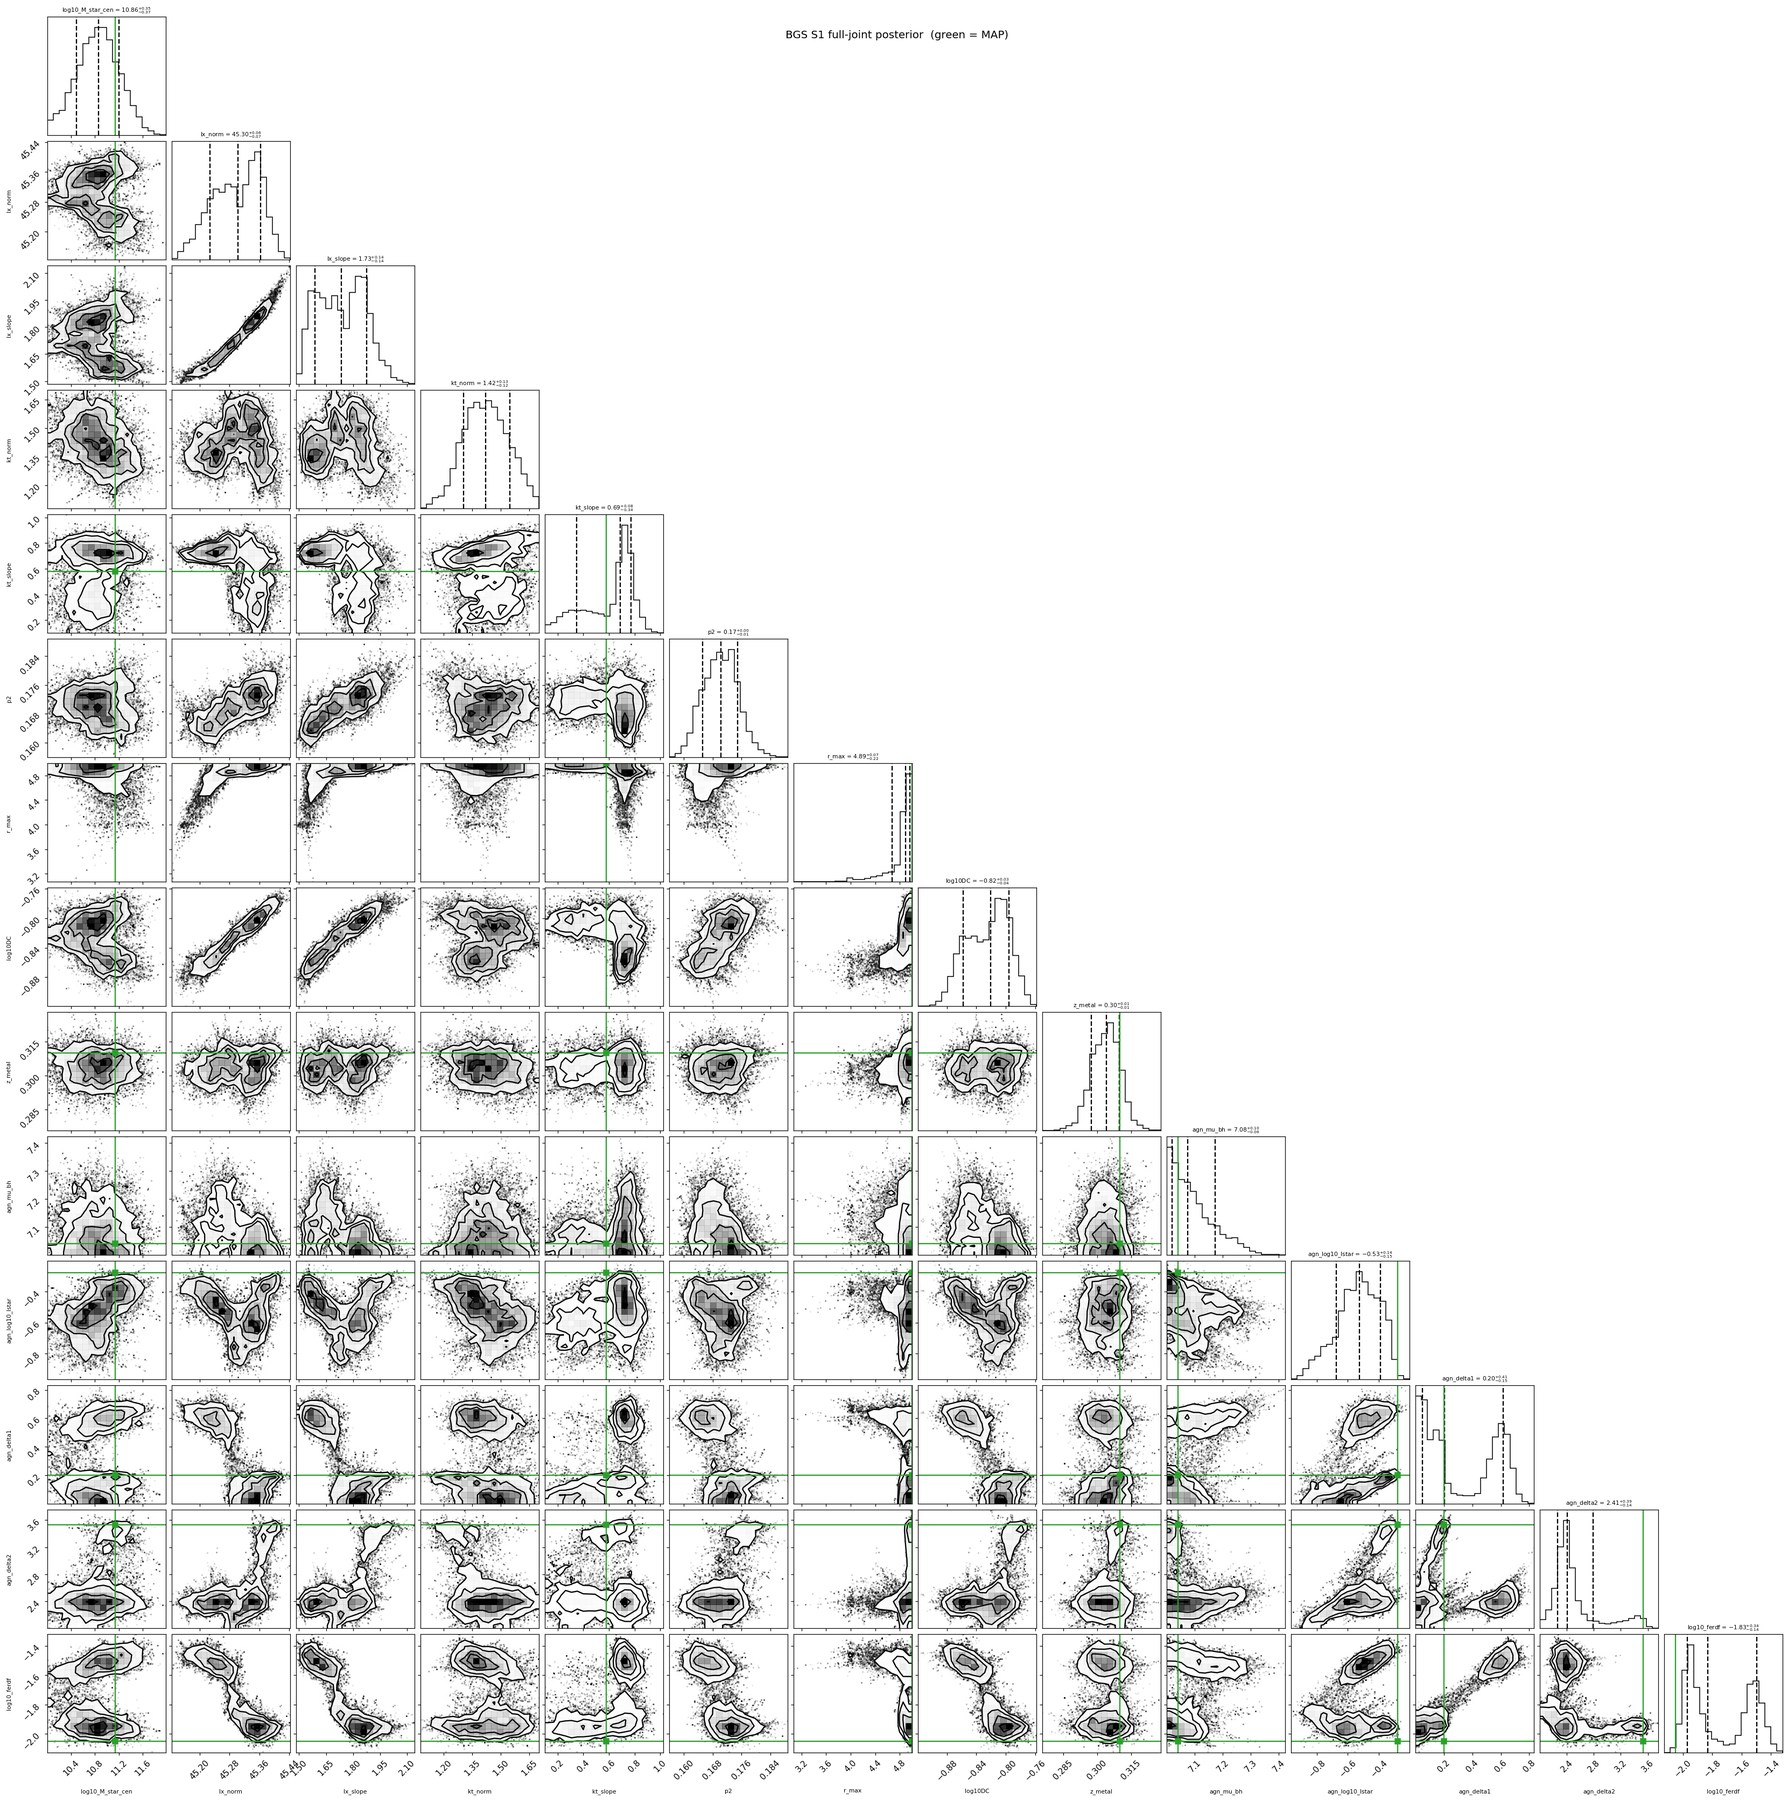
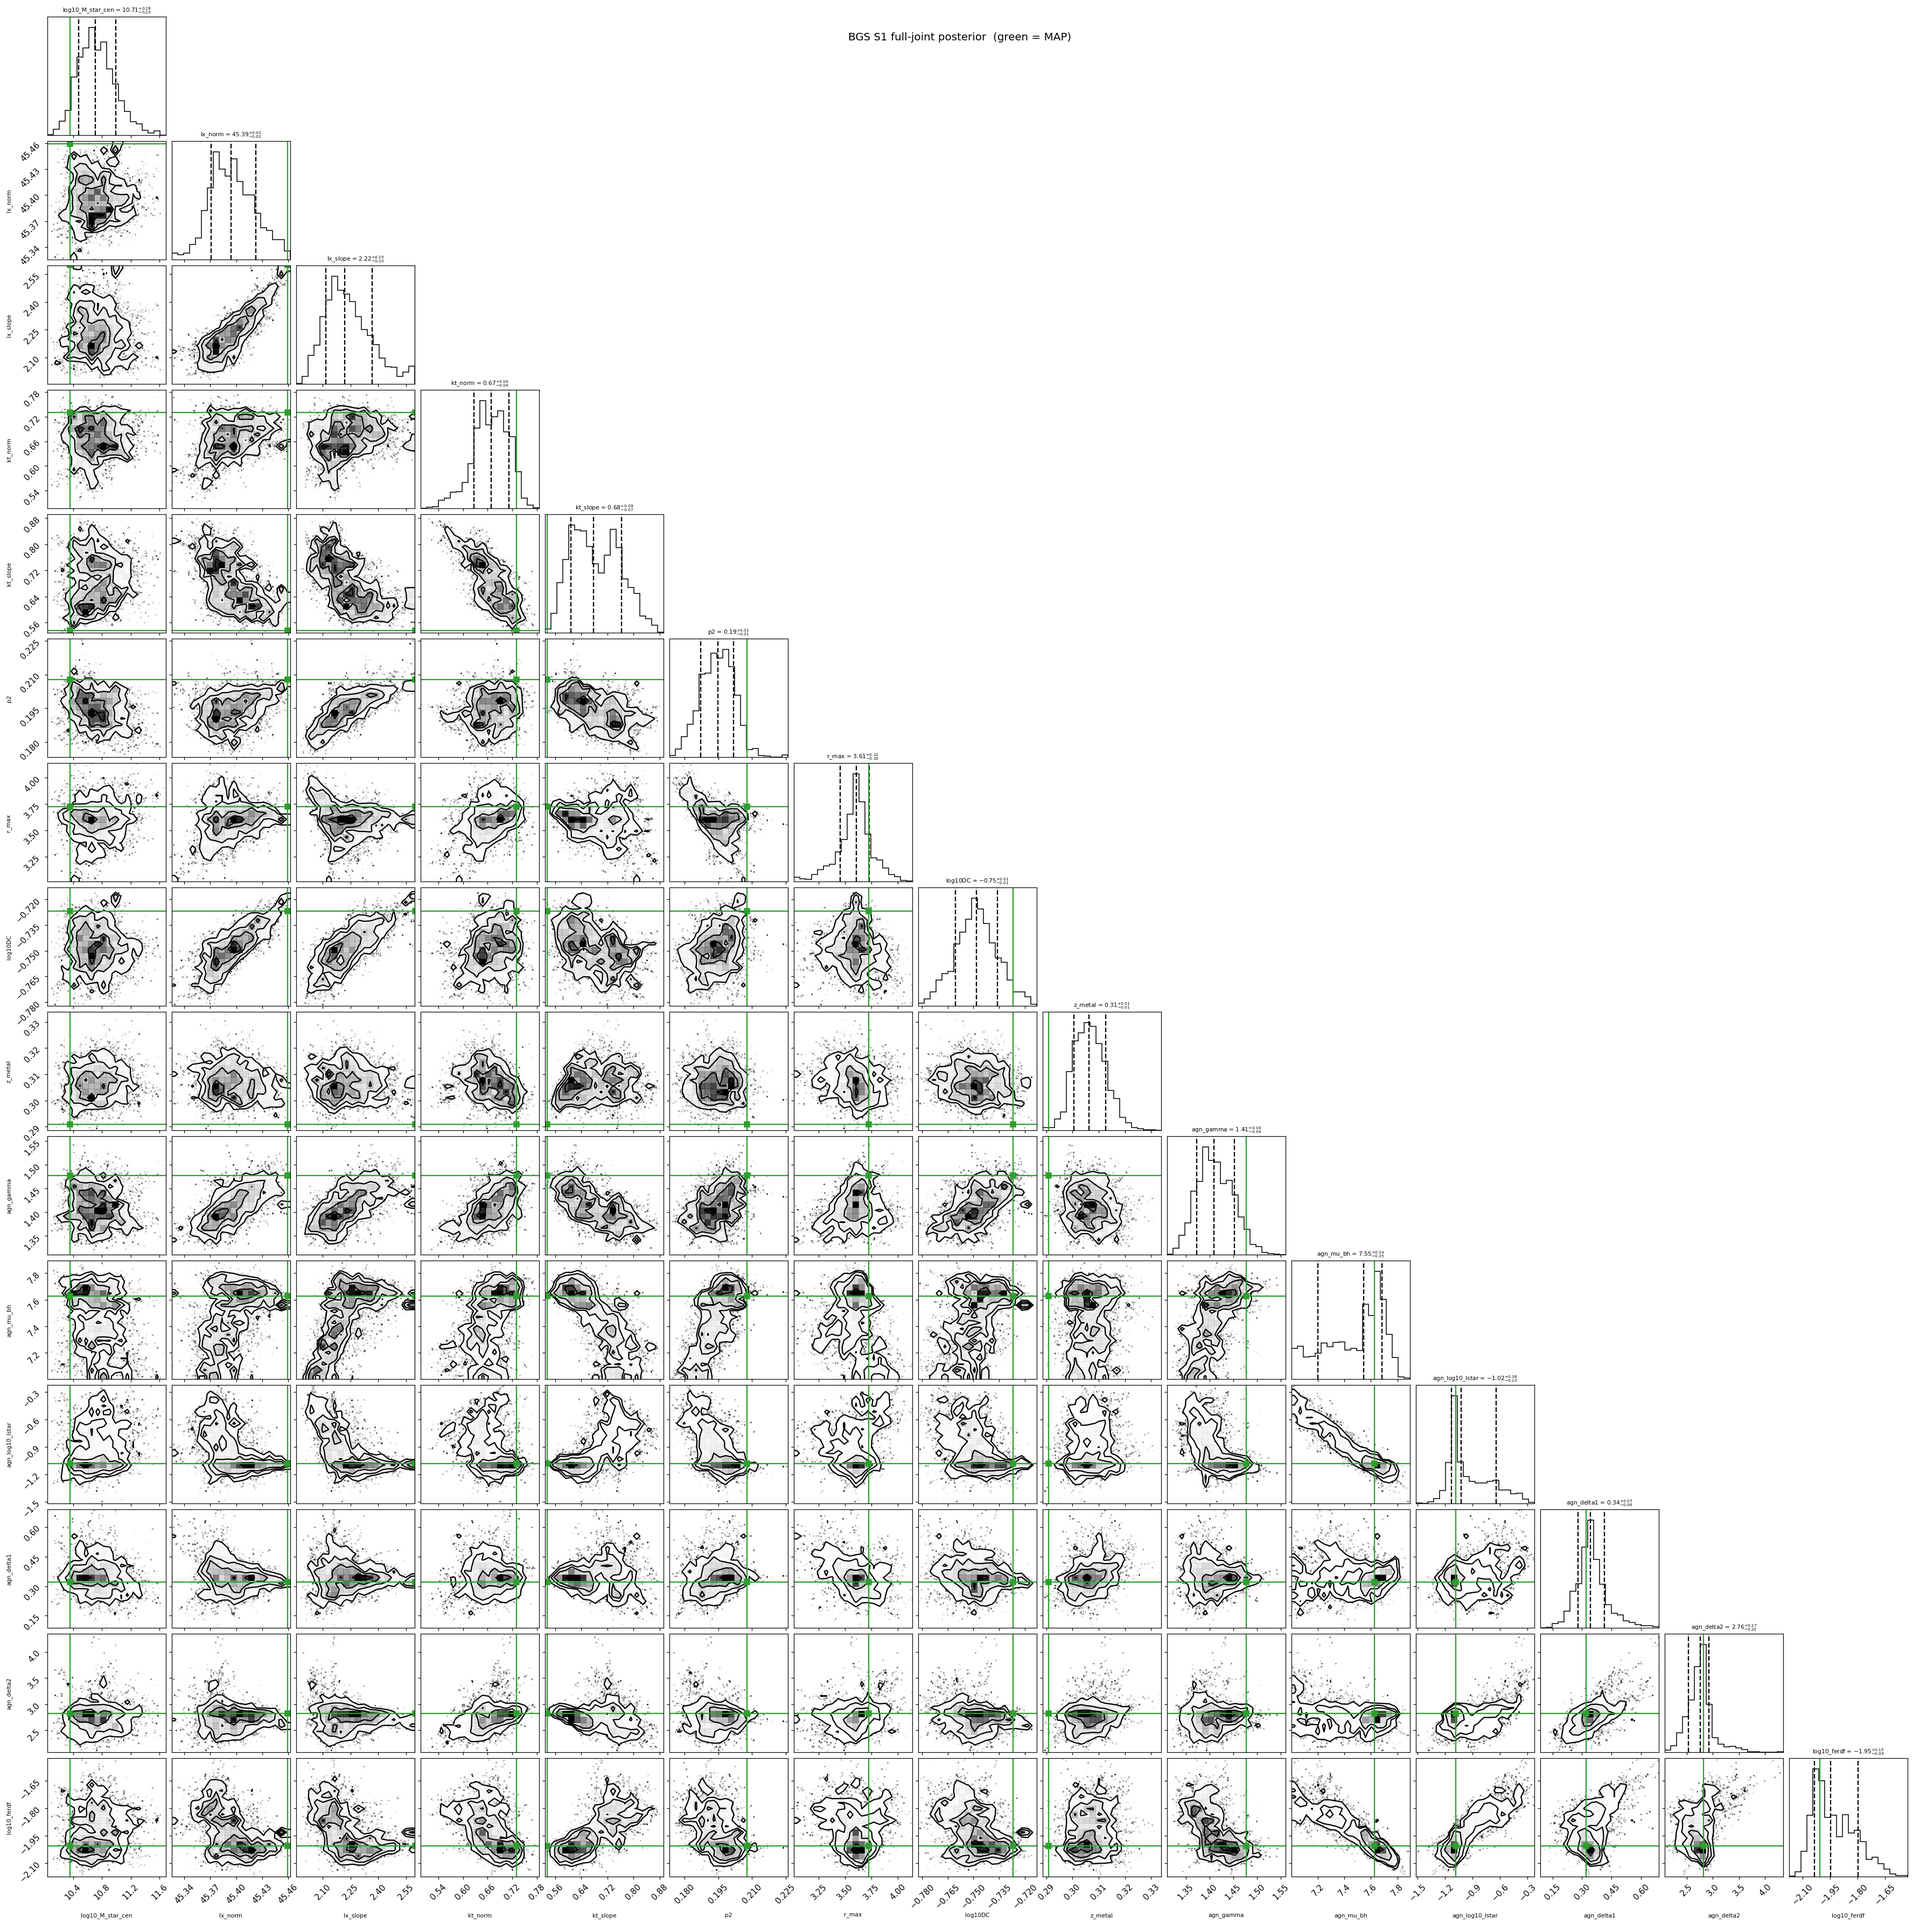
docs(bgs_full_joint): final config, band-model finding, decomposed figures
Update the page to the finalized fixed-ZM15 run (15 params incl. the free AGN
photon index agn_gamma; tight kt prior 0.05/0.04). Adds the "Why the AGN photon
index is free" section (the flat band-spectrum diagnostic and the Gamma-free fix)
and the AGN host stellar-mass function figure; refreshes the observables (1h/2h +
gas/AGN + bias +/-3sigma), log-log X-ray bands, gas scaling-relations, and corner
figures. Figures are from a representative chain; regenerate from the production
run with `plot_bgs_full_joint --docs`.

Changed region(s): [[0.0, 0.0, 1.0, 1.0]]

diff --git a/docs/bgs_full_joint.rst b/docs/bgs_full_joint.rst
@@ -24,15 +24,23 @@ shared halo-model engine (CAMB :math:`P(k)` + Tinker08 HMF + Zu & Mandelbaum
 
 * **Galaxies (ZM15).**  :math:`n_\mathrm{gal}` (SMF integral), projected
   clustering :math:`w_p(r_p)`, and excess surface density
-  :math:`\Delta\Sigma(r_p)` for DES/HSC/KIDS (:math:`r_p>2\,\mathrm{Mpc}/h`, with
-  a free central point mass).
+  :math:`\Delta\Sigma(r_p)` (with a free central point mass).
 * **Hot gas (X-ray).**  The 15 narrow 0.1-keV bands (0.5–2 keV) and the broad
   band of the galaxy × soft-X-ray cross-correlation (Comparat 2025), via the
   precomputed transfer-grid band model of :doc:`xray_joint_fit`.
-* **AGN (Powell).**  The X-ray luminosity function :math:`\phi(L_X)` at
-  :math:`z=0.1` and :math:`0.4` (Roster 2026) and the AGN halo bias
-  :math:`b(L_X)`, forward-modelled by
+* **AGN (Powell).**  The X-ray luminosity function :math:`\phi(L_X)` (Roster
+  2026) and the AGN halo bias :math:`b(L_X)`, forward-modelled by
   :class:`~hod_mod.agn.powell.PowellAGNModel`.
+
+**Data selection.**  The fitted data are trimmed to the most-robust points (all
+selections are ``fit_bgs_full_joint`` CLI options, recorded per run in
+``fit_config.json``):
+
+* lensing: only the **HSC** :math:`\Delta\Sigma` on :math:`2<r_p<8\,\mathrm{Mpc}/h`
+  (DES and KIDS dropped);
+* XLF: only the :math:`z=0.1` slice with :math:`\log_{10}L_X>41`;
+* AGN halo bias: only the **Comparat+2023** and **Krumpe+2015** points;
+* X-ray: the broad band **and** all 15 narrow bands are kept.
 
 **Two steps.**  The galaxy sector is expensive, so the ZM15 parameters are
 handled two ways (each has its own OAR job):
@@ -41,13 +49,13 @@ handled two ways (each has its own OAR job):
   :doc:`mass-bin posterior <bgs_zm15_joint_mcmc>` median, so the galaxy
   predictions that do not depend on the point mass are precomputed **once**; each
   likelihood evaluation is then :math:`\sim0.01\,\mathrm{s}` and the MCMC is fast.
-  **14 free parameters.**
+  **15 free parameters.**
 * **Step 3 — free ZM15**.  The 13 ZM15 parameters are additionally free with
   Gaussian priors from the mass-bin posterior (mean = median,
-  :math:`\sigma=(p_{84}-p_{16})/2`).  **27 free parameters**; the galaxy sector is
+  :math:`\sigma=(p_{84}-p_{16})/2`).  **28 free parameters**; the galaxy sector is
   recomputed every evaluation, so this is the heavier run.
 
-**Free parameters (Step 2, 14).**
+**Free parameters (Step 2, 15).**
 
 .. list-table::
    :header-rows: 1
@@ -63,8 +71,9 @@ handled two ways (each has its own OAR job):
      - flat / :math:`\mathcal N`
      - :math:`L_X`–:math:`M_{500c}` relation (normalisation, slope)
    * - ``kt_norm`` / ``kt_slope``
-     - flat / :math:`\mathcal N`
-     - :math:`k_BT`–:math:`M_{500c}` relation
+     - tight :math:`\mathcal N`
+     - :math:`k_BT`–:math:`M_{500c}` relation (:math:`\sigma=0.05/0.04` around the
+       observed 0.4/0.6 — see *Why the AGN index is free* below)
    * - ``p2`` / ``r_max``
      - flat
      - hot-gas density-profile shape (transfer grid)
@@ -74,6 +83,9 @@ handled two ways (each has its own OAR job):
    * - ``z_metal``
      - :math:`\mathcal N`
      - gas metallicity
+   * - ``agn_gamma``
+     - :math:`\mathcal N(1.8, 0.3)`
+     - AGN/continuum photon index — frees the band spectral shape (new)
    * - ``agn_mu_bh``
      - flat
      - :math:`M_{\rm BH}`–:math:`M_\star` normalisation
@@ -100,11 +112,15 @@ exactly where it left off.  The production Step-2 job uses 48 walkers,
    # 1. stage data + the ZM15 posterior + the apec cache to dahu (run locally)
    bash oarsub/rsync_data_to_dahu.sh
 
-   # 2. submit the fixed-ZM15 job (MAP then MCMC; a re-submit resumes the chain)
+   # 2. submit the fixed-ZM15 job (MAP then MCMC; a re-submit resumes the chain).
+   #    The job script applies the data selection + tight kT prior via CLI flags:
+   #      --esd-surveys HSC --esd-rp-max 8.0 --xlf-z 0.1 --xlf-lx-min 41.0
+   #      --agn-bias-refs Comparat23 Krumpe15 --kt-prior-sig 0.05 0.04
    oarsub --project your-oar-project -S ./oarsub/fit_bgs_full_joint_fixedzm15_mcmc.sh
 
    # 3. pull the run back, then plot (MAP + posterior-median overlays; --docs
-   #    writes the figures embedded below)
+   #    writes the figures embedded below).  The plotter reads fit_config.json so
+   #    the plotted data match the fit's selection automatically.
    rsync -avz DAHU:data/hod_mod_results/bgs_full_joint_fixedzm15/ \
        $HOD_MOD_RESULTS/bgs_full_joint_fixedzm15/
    JAX_PLATFORMS=cpu python -m hod_mod.scripts.fitting.plot_bgs_full_joint --docs
@@ -113,37 +129,109 @@ Data vs. MAP / posterior-median model
 -------------------------------------
 
 For every fitted observable, the figure shows the data with error bars, the
-**MAP** model (green) and the **posterior-median** model (blue dashed).
+**MAP** model (green) and the **posterior-median** model (blue dashed), each
+panel decomposed into its physical components.
 
 .. figure:: _images/bgs_full_joint_fixedzm15__observables.png
    :width: 100%
    :alt: Data vs MAP and posterior-median model for wp, ESD, XLF, AGN bias and the broad X-ray band.
 
-   Galaxy, AGN and broad-X-ray observables.  ``wp`` and ``ESD`` (DES/HSC/KIDS)
-   constrain the galaxy–halo connection (ZM15 fixed) and the central point mass;
-   ``XLF`` (:math:`z=0.1,\,0.4`) and ``AGN bias`` constrain the Powell AGN sector;
-   the broad :math:`w(\theta)` anchors the absolute hot-gas amplitude.
+   Galaxy, AGN and broad-X-ray observables.  ``wp`` and the HSC ``ESD``
+   (:math:`2<r_p<8`) are split into **1-halo / 2-halo** (ESD also the central
+   point mass); ``XLF`` (:math:`z=0.1`, :math:`\log_{10}L_X>41`) and ``AGN bias``
+   (Comparat+2023, Krumpe+2015) constrain the Powell AGN sector — the bias panel
+   shows the model :math:`\pm3\sigma` response in the host-mass normalisation
+   :math:`\mu_{\rm BH}`; the broad :math:`w(\theta)` (log-log) is split into
+   **gas** and **AGN**.
 
 .. figure:: _images/bgs_full_joint_fixedzm15__xray_bands.png
    :width: 100%
-   :alt: The 15 narrow 0.5-2 keV band w(theta) panels, data vs MAP and median models.
+   :alt: The 15 narrow 0.5-2 keV band w(theta) panels in log-log, decomposed into gas/AGN/total.
 
    The 15 narrow 0.1-keV bands of the galaxy × soft-X-ray cross-correlation
-   (0.5–2.0 keV).  The energy dependence of :math:`w(\theta)` encodes the gas
-   temperature (via the band-resolved cooling function) and the AGN contribution;
-   the 8 X-ray parameters are fit jointly across all bands.
+   (0.5–2.0 keV), in **log-log** with each panel decomposed into **gas / AGN /
+   total**.  The energy dependence of :math:`w(\theta)` is a gas-temperature
+   tracer (via the band-resolved cooling function); the AGN dominates
+   :math:`\theta\lesssim20''` and the gas the outer profile.  The 9 X-ray
+   parameters are fit jointly across all bands.
+
+Why the AGN photon index is free
+--------------------------------
+
+A per-band spectral diagnostic (``bandmodel_diagnostic.py``, staged with the run
+products) shows the observed cross-correlation band spectrum is **flat and
+featureless** — it lacks the Fe-L line peak at 0.7–1.2 keV that :math:`\sim1`-keV
+thermal gas would imprint, and it is nearly identical at all angular scales.
+Because APEC only reproduces a flat spectrum at :math:`k_BT\gtrsim8\,\mathrm{keV}`,
+a thermal-gas-only model is driven to an unphysically hot :math:`k_BT`, and even a
+tight :math:`k_BT`-:math:`M` prior cannot hold it (the band likelihood overrides
+it at :math:`\sim3.6\sigma`).
+
+The fix is to give the **continuum** its own spectral degree of freedom: the AGN
+photon index ``agn_gamma`` (fixed at :math:`\Gamma=1.8`) is freed.  The AGN then
+absorbs the flat spectral shape (:math:`\Gamma` settles hard, :math:`\approx1.5`),
+the band :math:`\chi^2` drops by :math:`\sim210`, and with the tight
+:math:`k_BT`-prior the **posterior** :math:`k_BT`-:math:`M` relation tracks the
+resolved-cluster scaling instead of soaring an order of magnitude above it.  A
+residual remains: even :math:`\Gamma`-free, the bands cannot fully pin the
+:math:`k_BT` *normalisation* (the density–temperature–continuum degeneracy is not
+fully broken by soft-X-ray emission alone) — the tSZ (pressure-weighted) cross is
+the natural next constraint.
+
+Hot-gas scaling relations and radial profiles
+---------------------------------------------
+
+The X-ray sector is parametrised by explicit :math:`L_X`–:math:`M_{500c}` and
+:math:`k_BT`–:math:`M_{500c}` power laws plus a density-profile shape
+(:math:`p_2`, :math:`r_{\max}`).  The top row shows those recovered scaling
+relations against cluster/group literature; the bottom row shows the DPM radial
+profiles whose density normalisation is calibrated to the fit's own
+:math:`L_X`–:math:`M` relation.
+
+.. figure:: _images/bgs_full_joint_fixedzm15__gas.png
+   :width: 100%
+   :alt: Hot-gas L_X-M, kT-M and L_X-kT scaling relations and n_e, T, P_e radial profiles.
+
+   **Top:** :math:`L_X`–:math:`M_{500c}`, :math:`k_BT`–:math:`M_{500c}` and
+   :math:`L_X`–:math:`k_BT` — the MAP (green) and posterior-median (blue) fit
+   relations with the 68 % posterior band, over-plotted with Lovisari+2020 and
+   Bulbul+2018 cluster/group samples and the Lovisari+2020 / Comparat+2025
+   (GAS.py) relations.  With ``agn_gamma`` free (previous section) the posterior
+   :math:`k_BT`–:math:`M_{500c}` **tracks the Lovisari/Bulbul cluster cloud**
+   rather than sitting an order of magnitude above it; the slope is physical.
+   **Bottom:** electron density :math:`n_e(r)`, temperature :math:`T(r)=P_e/n_e`
+   and electron pressure :math:`P_e(r)` at
+   :math:`M_{200}=10^{13,14,15}\,M_\odot/h` (dotted = Arnaud+2010 pressure), with
+   :math:`n_e` calibrated to the fit's :math:`L_X`–:math:`M`.
+
+AGN host stellar-mass function
+------------------------------
+
+A derived prediction: the stellar-mass function of AGN host galaxies above a
+hard-X-ray luminosity threshold, built from the Powell central-AGN occupation
+:math:`N_{\rm AGN}(>L_X\,|\,M_{\rm halo})` weighted by the HMF and mapped into
+stellar mass through the Girelli+2020 SHMR (with scatter).
+
+.. figure:: _images/bgs_full_joint_fixedzm15__agn_host_smf.png
+   :width: 75%
+   :alt: Predicted stellar-mass function of AGN host galaxies above L_X thresholds.
+
+   AGN host stellar-mass function for two hard-band luminosity thresholds
+   (model, centrals only).  Intended for comparison with Bongiorno+2016 — those
+   data are not yet staged locally, so this is currently the model prediction.
 
 Parameter posteriors
 --------------------
 
 .. figure:: _images/bgs_full_joint_fixedzm15__corner.png
    :width: 95%
-   :alt: Corner plot of the 14 free parameters with the MAP overlaid in green.
+   :alt: Corner plot of the 15 free parameters with the MAP overlaid in green.
 
-   The 14-parameter posterior (green lines = MAP).  The X-ray relation
-   parameters, the AGN ERDF parameters and the ESD point mass are recovered
-   jointly; the ``lx_norm``–``log10DC`` and ERDF slope directions show the
-   expected gas-vs-AGN and shape degeneracies.
+   The 15-parameter posterior (green lines = MAP).  The X-ray relation
+   parameters (incl. the free ``agn_gamma``), the AGN ERDF parameters and the ESD
+   point mass are recovered jointly; the ``lx_norm``–``log10DC`` and
+   ``agn_gamma``–``kt_norm`` directions show the expected gas-vs-AGN /
+   continuum-vs-temperature degeneracies.
 
 Where the outputs are stored
 ----------------------------
@@ -157,6 +245,9 @@ all-params Step-3 run uses ``bgs_full_joint_allparams/``):
 
    * - File
      - Content
+   * - ``fit_config.json``
+     - the exact data selection (surveys, cuts, references) — read back by the
+       plotter so the figures match the fit
    * - ``map_result.json``
      - MAP parameters, :math:`\chi^2`/dof, per-sector breakdown, optimiser status
        (written as soon as MAP finishes; its presence makes a re-submit skip MAP)
@@ -168,6 +259,6 @@ all-params Step-3 run uses ``bgs_full_joint_allparams/``):
    * - ``posterior_summary.json``
      - per-parameter median and :math:`\pm1\sigma` (16/50/84)
 
-The three figures above are produced by
+The figures above are produced by
 :mod:`hod_mod.scripts.fitting.plot_bgs_full_joint`; ``--docs`` writes them into
-``docs/_images/bgs_full_joint_fixedzm15__{observables,xray_bands,corner}.png``.
+``docs/_images/bgs_full_joint_fixedzm15__{observables,xray_bands,gas,agn_host_smf,corner}.png``.
